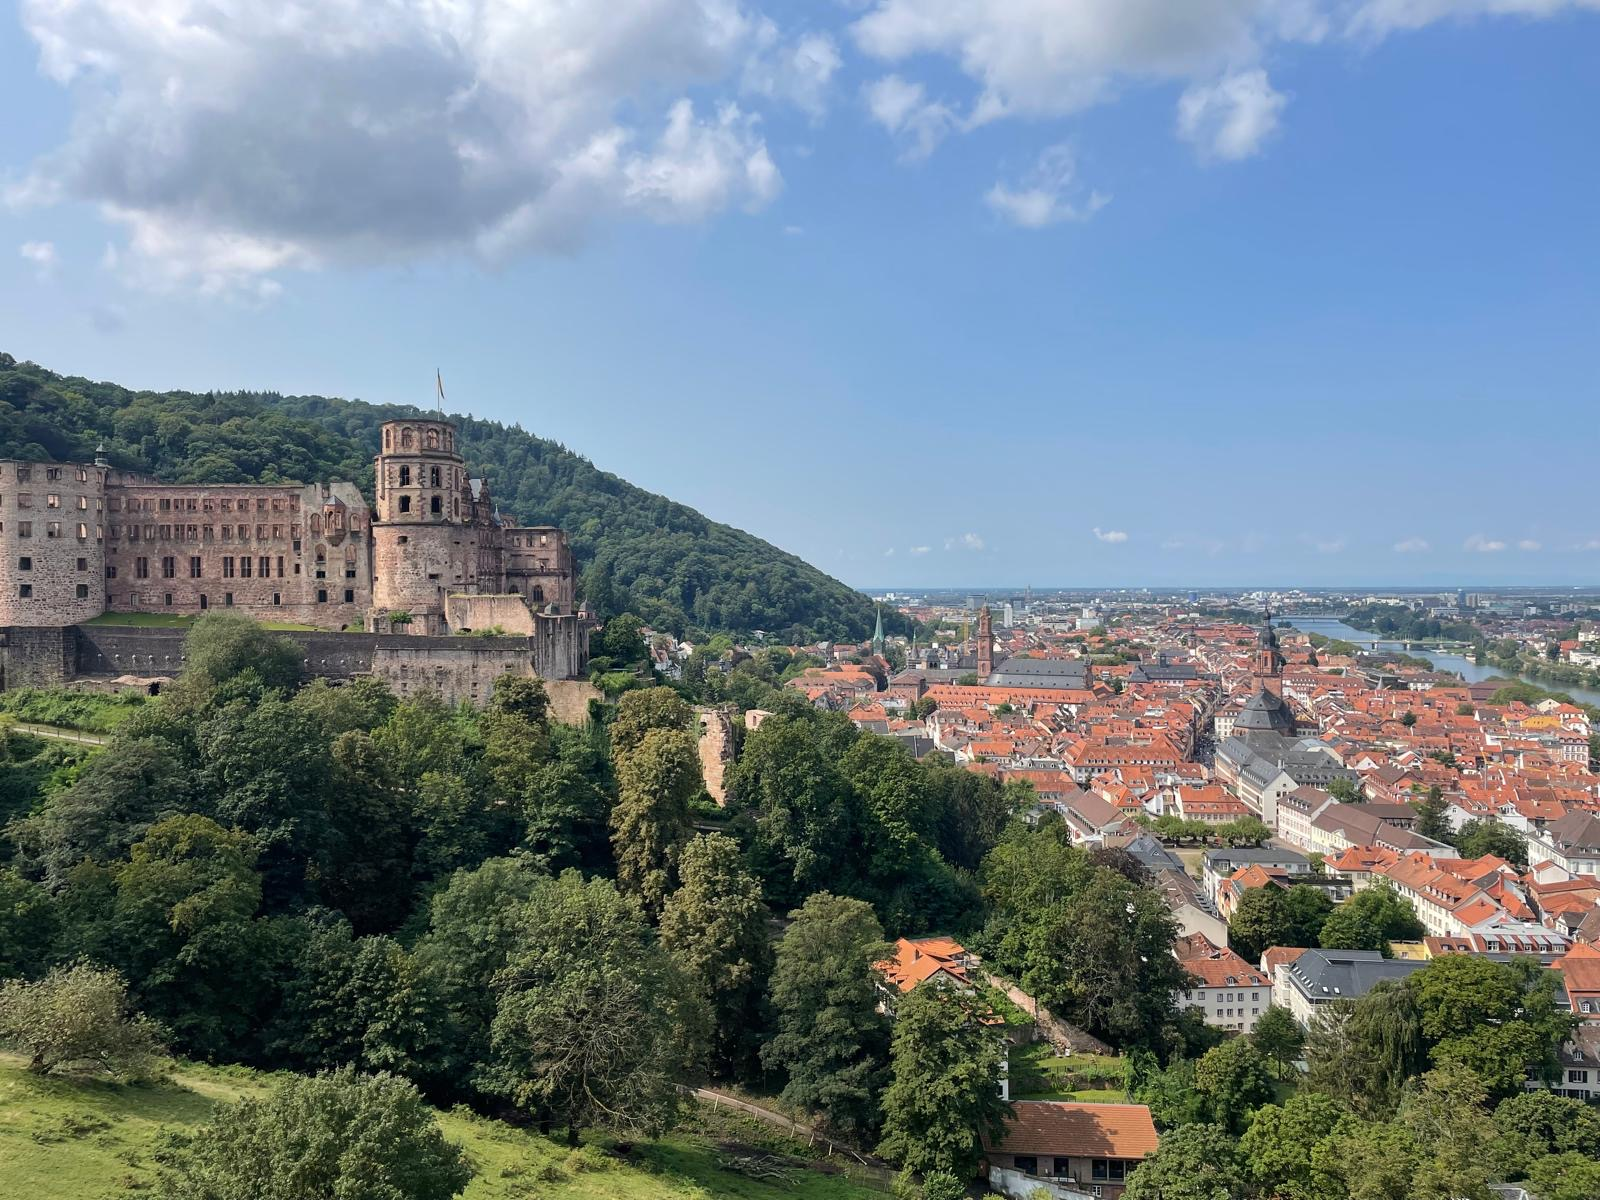
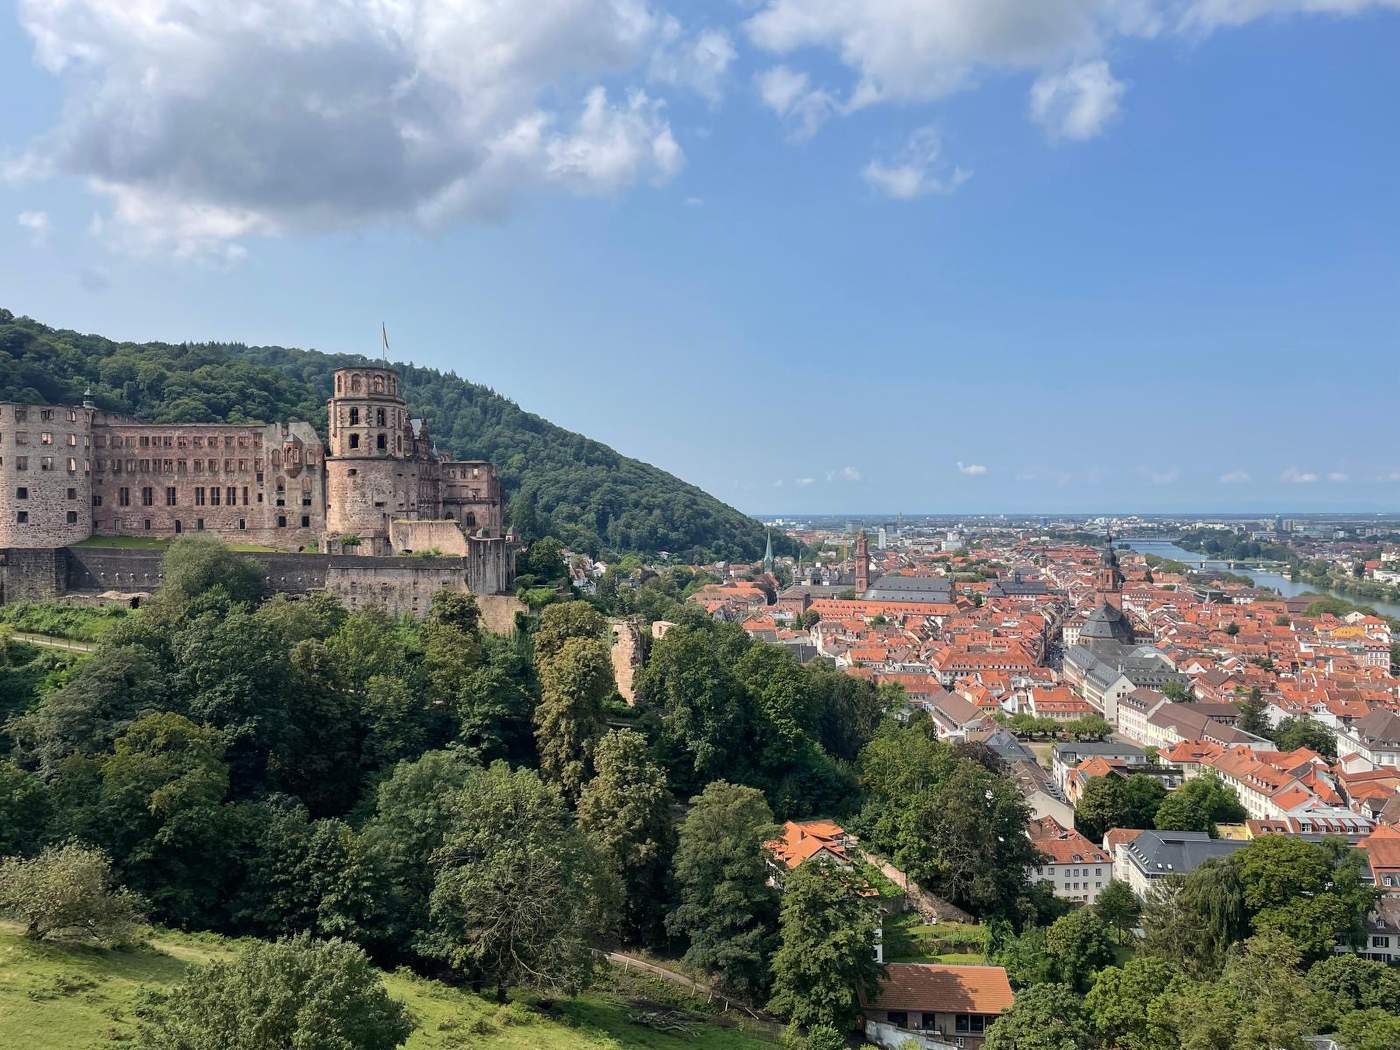
Polish site UX, privacy, assets, and dev tooling
- Hero: smaller progressive JPEGs, LQIP-style load, allowed image qualities
- Header: transparent PNG logo; webpack dev to fix Turbopack tailwind resolve
- Contact: email line breaks; Google Maps only after consent (cookie prefs v2)
- Reviews: vertical scroll on small screens; FAQ panel animation
- Copy: Wir tone (DE/EN); footer credits Tim Strohmenger; privacy note for Maps embed

Made-with: Cursor

diff --git a/src/components/GoogleMapEmbed.tsx b/src/components/GoogleMapEmbed.tsx
@@ -1,23 +1,49 @@
 "use client";
 
-import { ExternalLink } from "lucide-react";
-import { useEffect, useRef, useState } from "react";
+import { ExternalLink, MapPin } from "lucide-react";
+import { useCallback, useEffect, useRef, useState } from "react";
 import { getGoogleMapsEmbedSrc } from "@/config/maps";
+import { mapsEmbedAllowed, writeCookieConsent } from "@/lib/cookieConsent";
 
 type Props = {
   title: string;
   linkLabel: string;
   placeUrl: string;
+  consentHint: string;
+  loadMapLabel: string;
 };
 
 /**
- * Loads the iframe only when near the viewport to avoid blocking the main thread on first paint.
+ * Loads the iframe only after optional consent and when near the viewport.
  */
-export function GoogleMapEmbed({ title, linkLabel, placeUrl }: Props) {
+export function GoogleMapEmbed({
+  title,
+  linkLabel,
+  placeUrl,
+  consentHint,
+  loadMapLabel,
+}: Props) {
   const wrapRef = useRef<HTMLDivElement>(null);
   const [src, setSrc] = useState<string | null>(null);
+  const [mapsOk, setMapsOk] = useState(false);
+
+  const syncConsent = useCallback(() => {
+    setMapsOk(mapsEmbedAllowed());
+  }, []);
 
   useEffect(() => {
+    syncConsent();
+    const onChange = () => syncConsent();
+    window.addEventListener("fw-cookie-consent-changed", onChange);
+    window.addEventListener("storage", onChange);
+    return () => {
+      window.removeEventListener("fw-cookie-consent-changed", onChange);
+      window.removeEventListener("storage", onChange);
+    };
+  }, [syncConsent]);
+
+  useEffect(() => {
+    if (!mapsOk) return;
     const el = wrapRef.current;
     if (!el) return;
 
@@ -32,12 +58,17 @@ export function GoogleMapEmbed({ title, linkLabel, placeUrl }: Props) {
     );
     io.observe(el);
     return () => io.disconnect();
-  }, []);
+  }, [mapsOk]);
+
+  const activateMaps = () => {
+    writeCookieConsent("all");
+    setMapsOk(true);
+  };
 
   return (
     <div ref={wrapRef} className="mt-4">
       <div className="relative aspect-[16/10] w-full overflow-hidden rounded-2xl border border-slate-200 bg-slate-100 shadow-sm sm:aspect-[21/9]">
-        {src ? (
+        {mapsOk && src ? (
           <iframe
             title={title}
             src={src}
@@ -46,11 +77,25 @@ export function GoogleMapEmbed({ title, linkLabel, placeUrl }: Props) {
             referrerPolicy="no-referrer-when-downgrade"
             allowFullScreen
           />
-        ) : (
+        ) : mapsOk && !src ? (
           <div
             className="absolute inset-0 animate-pulse bg-slate-200"
             aria-hidden
           />
+        ) : (
+          <div className="absolute inset-0 flex flex-col items-center justify-center gap-4 bg-slate-50 px-6 text-center">
+            <MapPin className="h-10 w-10 text-slate-400" aria-hidden />
+            <p className="max-w-md text-sm leading-relaxed text-slate-600">
+              {consentHint}
+            </p>
+            <button
+              type="button"
+              className="rounded-full bg-ring px-5 py-2.5 text-sm font-semibold text-white shadow-md transition-opacity hover:opacity-90"
+              onClick={activateMaps}
+            >
+              {loadMapLabel}
+            </button>
+          </div>
         )}
       </div>
       <p className="mt-3 text-center">

diff --git a/src/components/CookieConsentBanner.tsx b/src/components/CookieConsentBanner.tsx
@@ -3,22 +3,27 @@
 import { useEffect, useState } from "react";
 import { useTranslations } from "next-intl";
 import { Link } from "@/i18n/navigation";
-
-const CONSENT_KEY = "fw_cookie_consent_v1";
+import { readCookieConsent, writeCookieConsent } from "@/lib/cookieConsent";
 
 export function CookieConsentBanner() {
   const t = useTranslations("CookieConsent");
   const [visible, setVisible] = useState(false);
 
   useEffect(() => {
-    const value = window.localStorage.getItem(CONSENT_KEY);
-    if (!value) {
-      queueMicrotask(() => setVisible(true));
-    }
+    const sync = () => {
+      setVisible(readCookieConsent() === "none");
+    };
+    queueMicrotask(sync);
+    window.addEventListener("fw-cookie-consent-changed", sync);
+    window.addEventListener("storage", sync);
+    return () => {
+      window.removeEventListener("fw-cookie-consent-changed", sync);
+      window.removeEventListener("storage", sync);
+    };
   }, []);
 
-  const saveConsent = (value: "accepted" | "declined") => {
-    window.localStorage.setItem(CONSENT_KEY, value);
+  const save = (level: "essential" | "all") => {
+    writeCookieConsent(level);
     setVisible(false);
   };
 
@@ -40,16 +45,16 @@ export function CookieConsentBanner() {
           <button
             type="button"
             className="rounded-full border border-slate-300 px-4 py-2 text-sm font-semibold text-slate-700 transition-colors hover:bg-slate-100"
-            onClick={() => saveConsent("declined")}
+            onClick={() => save("essential")}
           >
-            {t("decline")}
+            {t("essentialOnly")}
           </button>
           <button
             type="button"
             className="rounded-full bg-ring px-4 py-2 text-sm font-semibold text-white transition-opacity hover:opacity-90"
-            onClick={() => saveConsent("accepted")}
+            onClick={() => save("all")}
           >
-            {t("accept")}
+            {t("acceptAll")}
           </button>
         </div>
       </div>

diff --git a/src/components/Hero.tsx b/src/components/Hero.tsx
@@ -1,6 +1,6 @@
 "use client";
 
-import { useEffect, useRef } from "react";
+import { useEffect, useRef, useState } from "react";
 import Image from "next/image";
 import { Phone } from "lucide-react";
 import { useTranslations } from "next-intl";
@@ -10,6 +10,7 @@ const PHONE = "+491747120901";
 export function Hero() {
   const t = useTranslations("Hero");
   const sectionRef = useRef<HTMLElement>(null);
+  const [hiResReady, setHiResReady] = useState(false);
 
   useEffect(() => {
     const section = sectionRef.current;
@@ -48,14 +49,27 @@ export function Hero() {
       <div className="absolute inset-0">
         <div className="absolute inset-0 overflow-hidden">
           <Image
-            src="/images/heidelberg-hero.jpg"
-            alt={t("imageAlt")}
+            src="/images/heidelberg-hero-sm.jpg"
+            alt=""
             fill
             priority
             fetchPriority="high"
-            quality={78}
+            quality={60}
             sizes="100vw"
-            className="hero-scroll-image -scale-x-100 object-cover object-[center_35%] sm:object-center"
+            className="hero-scroll-image -scale-x-100 object-cover object-[center_35%] blur-[2px] sm:object-center"
+            aria-hidden
+          />
+          <Image
+            src="/images/heidelberg-hero.jpg"
+            alt={t("imageAlt")}
+            fill
+            loading="lazy"
+            quality={72}
+            sizes="100vw"
+            onLoad={() => setHiResReady(true)}
+            className={`hero-scroll-image -scale-x-100 object-cover object-[center_35%] transition-opacity duration-700 ease-out sm:object-center ${
+              hiResReady ? "opacity-100" : "opacity-0"
+            }`}
           />
         </div>
         <div

diff --git a/src/components/Faq.tsx b/src/components/Faq.tsx
@@ -24,17 +24,19 @@ export async function Faq() {
               key={item.q}
               name="faq"
               open={i === 0}
-              className="faq-details group overflow-hidden rounded-xl border border-slate-200 bg-slate-50/50 shadow-sm transition-colors open:border-orange-200/80 open:bg-white hover:border-orange-200/60"
+              className="faq-details group overflow-hidden rounded-xl border border-slate-200 bg-slate-50/50 shadow-sm transition-[border-color,background-color] duration-200 open:border-orange-200/80 open:bg-white hover:border-orange-200/60"
             >
               <summary className="flex cursor-pointer list-none items-center justify-between gap-4 px-4 py-4 text-left text-base font-semibold text-slate-900 sm:px-5">
                 <span>{item.q}</span>
                 <ChevronDown
-                  className="h-5 w-5 shrink-0 text-slate-500 transition-transform duration-200 group-open:rotate-180"
+                  className="h-5 w-5 shrink-0 text-slate-500 transition-transform duration-300 ease-out group-open:rotate-180"
                   aria-hidden
                 />
               </summary>
-              <div className="border-t border-slate-200 bg-white px-4 py-4 text-slate-600 sm:px-5">
-                {item.a}
+              <div className="faq-panel">
+                <div className="faq-panel-inner border-t border-slate-200 bg-white px-4 py-4 text-slate-600 sm:px-5">
+                  {item.a}
+                </div>
               </div>
             </details>
           ))}

diff --git a/src/app/globals.css b/src/app/globals.css
@@ -120,13 +120,34 @@ body {
   }
 }
 
-/* FAQ: native details */
+/* FAQ: native details + height animation */
 .faq-details summary::-webkit-details-marker {
   display: none;
 }
 
 .faq-details summary {
   list-style: none;
+}
+
+.faq-panel {
+  display: grid;
+  grid-template-rows: 0fr;
+  transition: grid-template-rows 0.38s cubic-bezier(0.22, 1, 0.36, 1);
+}
+
+.faq-details[open] .faq-panel {
+  grid-template-rows: 1fr;
+}
+
+.faq-panel-inner {
+  min-height: 0;
+  overflow: hidden;
+}
+
+@media (prefers-reduced-motion: reduce) {
+  .faq-panel {
+    transition: none;
+  }
 }
 
 /* Google reviews: stagger + mobile carousel */
@@ -154,18 +175,21 @@ body {
   }
 }
 
-.reviews-scroller {
+/* Google reviews: vertical scroll pane on small screens */
+.reviews-mobile-scroll {
   scrollbar-width: thin;
 }
 
 @media (max-width: 639px) {
-  .reviews-scroller {
-    overflow-x: auto;
-    scroll-snap-type: x mandatory;
+  .reviews-mobile-scroll {
+    max-height: min(70vh, 520px);
+    overflow-y: auto;
+    overscroll-behavior: contain;
+    padding-right: 2px;
     -webkit-overflow-scrolling: touch;
-  }
-
-  .reviews-scroller .review-card {
-    scroll-snap-align: start;
+    border-radius: 1rem;
+    border: 1px solid rgb(241 245 249);
+    background: rgb(248 250 252 / 0.85);
+    padding: 0.75rem;
   }
 }

diff --git a/src/components/ReviewsSection.tsx b/src/components/ReviewsSection.tsx
@@ -79,12 +79,12 @@ export function ReviewsSection({ data }: Props) {
             )}
 
             <div
-              className={`reviews-scroller mt-10 flex gap-5 pb-2 sm:grid sm:grid-cols-2 sm:pb-0 lg:grid-cols-3 ${animate ? "reviews-animated" : ""}`.trim()}
+              className={`reviews-mobile-scroll mt-10 flex flex-col gap-4 sm:grid sm:grid-cols-2 sm:gap-5 lg:grid-cols-3 ${animate ? "reviews-animated" : ""}`.trim()}
             >
               {reviews.map((rev, i) => (
                 <article
                   key={`${rev.author_name}-${i}`}
-                  className="review-card group flex min-w-[min(100%,320px)] shrink-0 flex-col rounded-2xl border border-slate-200/90 bg-white p-5 shadow-sm sm:min-w-0"
+                  className="review-card group flex w-full shrink-0 flex-col rounded-2xl border border-slate-200/90 bg-white p-5 shadow-sm"
                   style={{ animationDelay: `${0.06 + i * 0.09}s` }}
                 >
                   <div className="flex items-start gap-3">

diff --git a/src/components/Contact.tsx b/src/components/Contact.tsx
@@ -45,8 +45,9 @@ export async function Contact() {
             <span className="mt-4 text-sm font-medium text-slate-500">
               {t("emailLabel")}
             </span>
-            <span className="mt-1 break-all text-lg font-semibold text-slate-900">
-              {EMAIL}
+            <span className="mt-1 text-lg font-semibold leading-snug text-slate-900 [overflow-wrap:anywhere] sm:whitespace-nowrap">
+              info@<wbr />
+              schlüsselnotdienst-weineck.de
             </span>
           </a>
           <div className="flex flex-col rounded-2xl border border-slate-200 bg-white p-6 shadow-sm">
@@ -70,6 +71,8 @@ export async function Contact() {
           title={t("mapIframeTitle")}
           linkLabel={t("mapLinkOpen")}
           placeUrl={GOOGLE_MAPS_PLACE_URL}
+          consentHint={t("mapConsentHint")}
+          loadMapLabel={t("mapLoadEmbed")}
         />
       </div>
     </section>

diff --git a/src/lib/cookieConsent.ts b/src/lib/cookieConsent.ts
@@ -1,0 +1,27 @@
+export type CookieConsentLevel = "none" | "essential" | "all";
+
+const V1_KEY = "fw_cookie_consent_v1";
+const V2_KEY = "fw_cookie_consent_v2";
+
+export function readCookieConsent(): CookieConsentLevel {
+  if (typeof window === "undefined") return "none";
+
+  const v2 = window.localStorage.getItem(V2_KEY);
+  if (v2 === "essential" || v2 === "all") return v2;
+
+  const v1 = window.localStorage.getItem(V1_KEY);
+  if (v1 === "accepted") return "all";
+  if (v1 === "declined") return "essential";
+
+  return "none";
+}
+
+export function writeCookieConsent(level: Exclude<CookieConsentLevel, "none">) {
+  window.localStorage.setItem(V2_KEY, level);
+  window.localStorage.removeItem(V1_KEY);
+  window.dispatchEvent(new Event("fw-cookie-consent-changed"));
+}
+
+export function mapsEmbedAllowed(): boolean {
+  return readCookieConsent() === "all";
+}

diff --git a/src/components/Header.tsx b/src/components/Header.tsx
@@ -44,10 +44,10 @@ export function Header() {
           className="transition-transform duration-200 hover:scale-[1.02]"
         >
           <Image
-            src="/images/logo-weineck-blue.jpeg"
+            src="/images/download%20no%20bg.png"
             alt="Schluesseldienst Florian Weineck"
-            width={280}
-            height={80}
+            width={1500}
+            height={426}
             className="h-9 w-auto sm:h-10"
             priority
           />

diff --git a/src/components/Footer.tsx b/src/components/Footer.tsx
@@ -15,6 +15,7 @@ export async function Footer() {
             <p className="mt-1 text-sm text-slate-400">
               © {year} Florian Weineck. {t("rights")}
             </p>
+            <p className="mt-2 text-xs text-slate-500">{t("siteCredit")}</p>
           </div>
           <nav className="flex flex-wrap gap-6 text-sm font-medium">
             <Link href="/impressum" className="transition-colors hover:text-white">

diff --git a/next.config.ts b/next.config.ts
@@ -6,6 +6,8 @@ const nextConfig: NextConfig = {
   trailingSlash: true,
   images: {
     unoptimized: true,
+    /** Hero uses `quality` 60 / 72; Next 16 defaults to [75] only and logs otherwise. */
+    qualities: [60, 72, 75],
   },
   experimental: {
     optimizePackageImports: ["lucide-react"],
